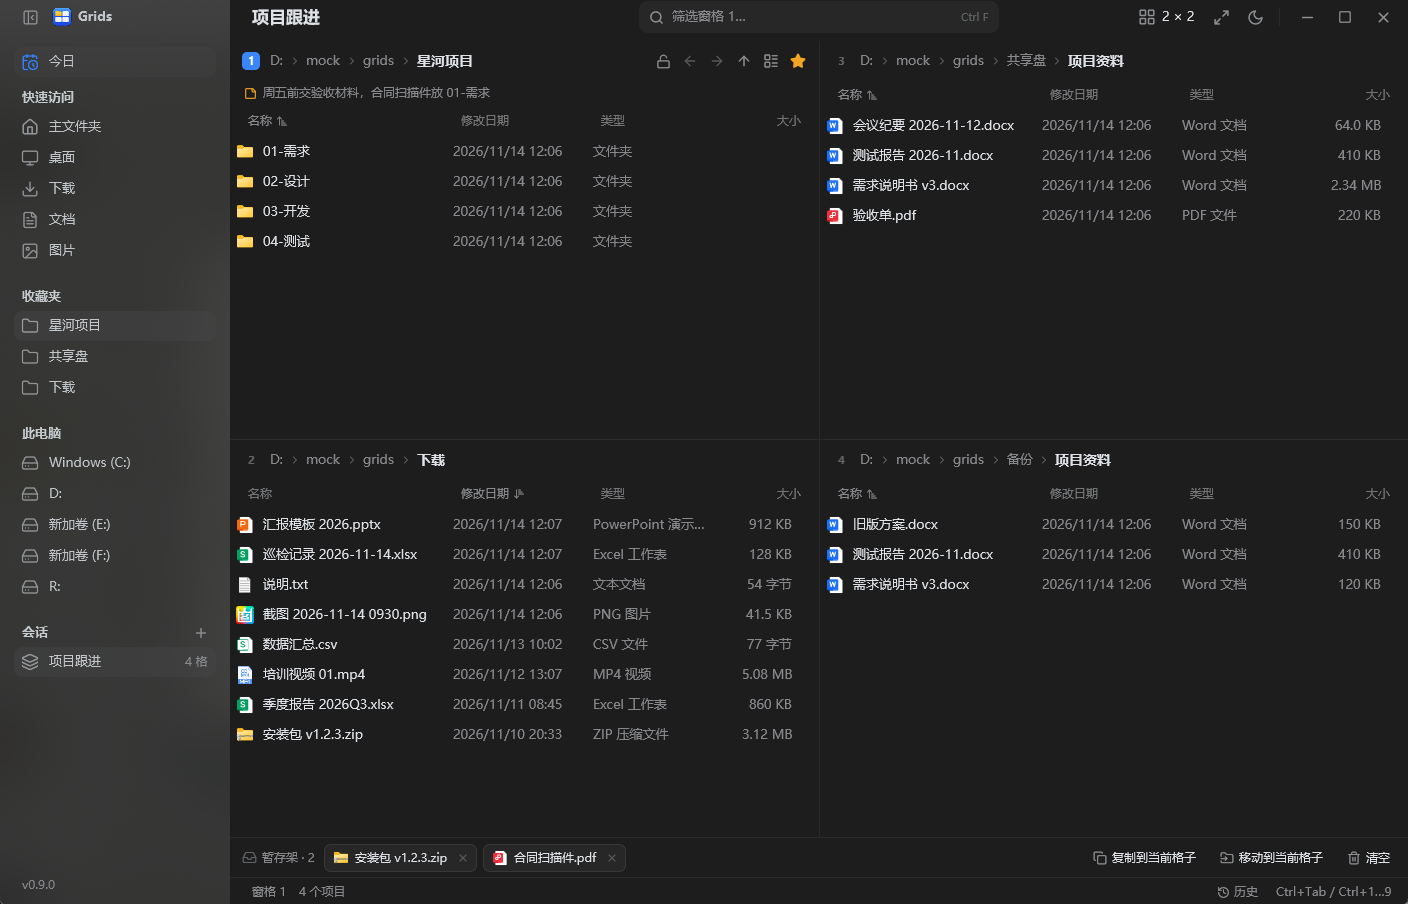
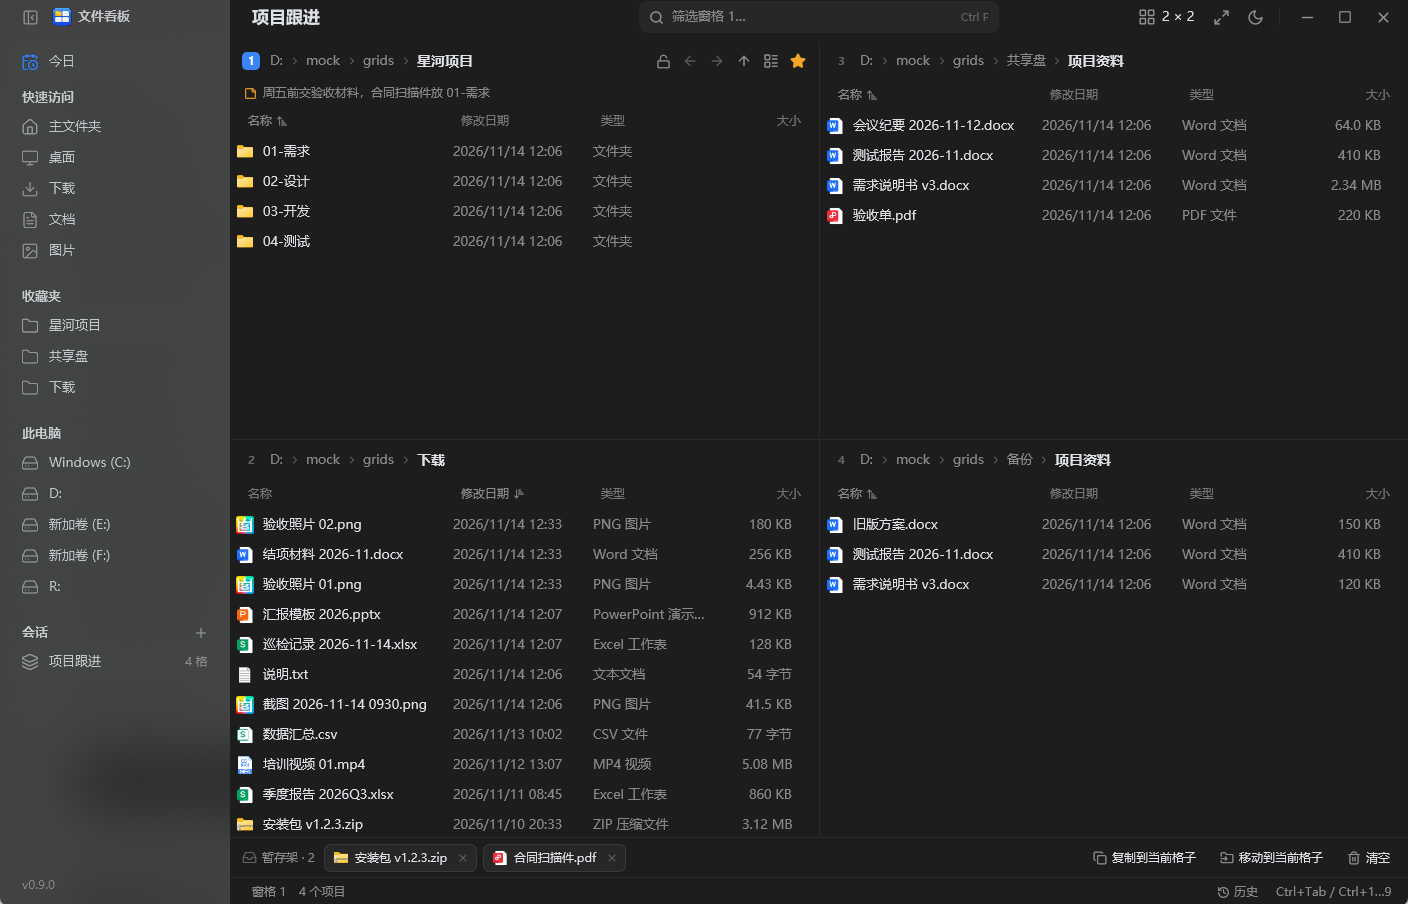
UI: the window is called 文件看板 / PaneBoard
The name follows the interface language: 文件看板 in Chinese, PaneBoard in
English. It shows in the title bar, the sidebar header, the about and version
dialogs, and the read-only notices. Repository, exe and settings keep the
Grids name.

README: name note, a Download section pointing at Releases, and the seven
screenshots retaken with the new name.

diff --git a/src/workspace.rs b/src/workspace.rs
@@ -320,7 +320,7 @@ impl Workspace {
 
     /// An edit was refused in a read-only folder: say so, offer to unlock.
     fn show_locked(&mut self, root: PathBuf, cx: &mut Context<Self>) {
-        let msg = tr(cx, "此文件夹已设为只读（仅在 Grids 内生效）", "This folder is read-only (inside Grids only)").to_string();
+        let msg = if state::en(cx) { format!("This folder is read-only (inside {} only)", state::brand(cx)) } else { format!("此文件夹已设为只读（仅在{}内生效）", state::brand(cx)) };
         self.show_toast(msg, cx);
         self.toast_unlock = Some(root);
     }
@@ -481,7 +481,7 @@ impl Workspace {
         let en = state::en(cx);
         let cfg = &state::shared(cx).config;
         let sidebar_open = cfg.sidebar_open;
-        let title = cfg.session_name.clone().unwrap_or_else(|| "Grids".into());
+        let title = cfg.session_name.clone().unwrap_or_else(|| state::brand(cx).into());
         let appearance = cfg.appearance;
         let l = &self.layout;
         let theme_icon = match appearance { Appearance::System => "sun-moon", Appearance::Light => "sun", Appearance::Dark => "moon" };
@@ -607,7 +607,7 @@ impl Workspace {
                 div().flex().items_center().gap(px(12.)).p(px(20.)).pb(px(12.))
                     .child(img("icon/grids-48.png").size(px(40.)).flex_none())
                     .child(div().flex_1().flex().flex_col().gap(px(2.))
-                        .child(div().text_size(px(17.)).font_weight(FontWeight::SEMIBOLD).child(format!("Grids {}", env!("CARGO_PKG_VERSION"))))
+                        .child(div().text_size(px(17.)).font_weight(FontWeight::SEMIBOLD).child(format!("{} {}", state::brand(cx), env!("CARGO_PKG_VERSION"))))
                         .child(div().text_color(Theme::text_caption()).child(tr(cx, "多窗格文件管理器 · MIT 许可证", "Multi-pane file manager · MIT licence"))))
                     .child(header_icon("about-close", "x", 28., 16.).tip(tr(cx, "关闭", "Close"), Some("Esc")).on_click(cx.listener(|this, _, window, cx| this.close_about(window, cx)))),
             )
@@ -700,7 +700,7 @@ impl Workspace {
                 div().flex().items_center().gap(px(10.)).px(px(14.)).pt(px(10.)).pb(px(8.))
                     .child(img("icon/grids-48.png").size(px(32.)).flex_none())
                     .child(div().flex().flex_col()
-                        .child(div().text_size(px(15.)).font_weight(FontWeight::SEMIBOLD).child("Grids"))
+                        .child(div().text_size(px(15.)).font_weight(FontWeight::SEMIBOLD).child(state::brand(cx)))
                         .child(div().text_size(px(theme::UI_SMALL)).text_color(Theme::text_caption()).child(tr(cx, "多窗格文件管理器", "Multi-pane file manager")))),
             )
             .child(
@@ -1114,7 +1114,7 @@ impl Workspace {
                 // The sidebar's own header row: the toggle, level with the plane's title.
                 div().h(px(HEADER_H)).flex_none().flex().items_center().pl(px(16.)).title_bar()
                     .child(header_icon("toggle-sidebar", "panel-left-close", 28., 17.).tip(tr(cx, "收起侧栏", "Hide sidebar"), Some("Ctrl+B")).on_click(cx.listener(|this, _, _, cx| this.toggle_sidebar(cx))))
-                    .child(div().ml(px(8.)).flex().items_center().gap(px(6.)).text_color(Theme::sidebar_text()).child(img("icon/grids-48.png").size(px(20.)).flex_none()).child(div().font_weight(FontWeight::SEMIBOLD).child("Grids"))),
+                    .child(div().ml(px(8.)).flex().items_center().gap(px(6.)).text_color(Theme::sidebar_text()).child(img("icon/grids-48.png").size(px(20.)).flex_none()).child(div().font_weight(FontWeight::SEMIBOLD).child(state::brand(cx)))),
             )
             .child(col)
             .child(div().flex_none().h(px(40.)).px(px(SB_X)).flex().items_center().child(self.version_label(cx)))

diff --git a/src/pane.rs b/src/pane.rs
@@ -1573,10 +1573,11 @@ impl PaneView {
         });
         // Read-only: the lock stays in view; unlocked it shows on hover.
         let lock_root = state::locked_root(cx, &st.path);
+        let brand = state::brand(cx);
         let lock_tip: SharedString = match &lock_root {
-            Some(r) if r == &st.path => t("只读文件夹（仅在 Grids 内生效）· 点击解锁", "Read-only (inside Grids only) · click to unlock").into(),
+            Some(r) if r == &st.path => if en { format!("Read-only folder (inside {brand} only) · click to unlock") } else { format!("只读文件夹（仅在{brand}内生效）· 点击解锁") }.into(),
             Some(r) => if en { format!("Read-only: locked at “{}” · click to unlock", r.display()) } else { format!("只读：由「{}」锁定 · 点击解锁", r.display()) }.into(),
-            None => t("设为只读（仅在 Grids 内生效）", "Make read-only (inside Grids only)").into(),
+            None => if en { format!("Make read-only (inside {brand} only)") } else { format!("设为只读（仅在{brand}内生效）") }.into(),
         };
         let locked = lock_root.is_some();
         let lock_btn = div().id("lock").size(px(26.)).rounded(px(7.)).flex_none().flex().items_center().justify_center().cursor_pointer()
@@ -1944,9 +1945,10 @@ impl Render for PaneView {
         });
         // A locked folder takes no clicks at all: nothing to select, nothing to
         // drag, nothing to drop onto.
+        let brand = state::brand(cx);
         let lock_veil = locked.as_ref().map(|root| {
             let tip: SharedString = if root == &self.state.path {
-                if en { "Locked folder (inside Grids only) · unlock with the lock button in the title bar".into() } else { "文件夹已锁定（仅在 Grids 内生效）· 点标题栏的锁图标解锁".into() }
+                if en { format!("Locked folder (inside {brand} only) · unlock with the lock button in the title bar").into() } else { format!("文件夹已锁定（仅在{brand}内生效）· 点标题栏的锁图标解锁").into() }
             } else if en { format!("Locked at “{}” · unlock with the lock button in the title bar", root.display()).into() } else { format!("由「{}」锁定 · 点标题栏的锁图标解锁", root.display()).into() };
             let root2 = root.clone();
             div().id("lock-veil").absolute().inset_0().occlude()

diff --git a/src/main.rs b/src/main.rs
@@ -27,6 +27,8 @@ fn main() {
     // Simplified Chinese by default; GRIDS_LANG=en switches to English.
     if let Some(l) = std::env::var_os("GRIDS_LANG") { config.lang = if l == "en" { Lang::En } else { Lang::Zh } }
     let (w, h) = config.window.unwrap_or((1360., 860.));
+    // The product name the interface and the taskbar show, in its language.
+    let brand = if config.lang == Lang::En { "PaneBoard" } else { "文件看板" };
     Application::new().with_assets(assets::Assets).run(move |cx: &mut App| {
         input::bind_keys(cx);
         pane::bind_keys(cx);
@@ -40,7 +42,7 @@ fn main() {
                 app_id: Some("grids".into()),
                 window_decorations: if cfg!(target_os = "linux") { Some(WindowDecorations::Client) } else { None },
                 titlebar: Some(TitlebarOptions {
-                    title: Some("Grids".into()),
+                    title: Some(brand.into()),
                     appears_transparent: true,
                     traffic_light_position: Some(point(px(14.), px(ui::HEADER_H / 2. - 7.))),
                 }),

diff --git a/src/state.rs b/src/state.rs
@@ -33,6 +33,8 @@ impl Shared {
 pub fn shared(cx: &App) -> &Shared { cx.global::<Shared>() }
 pub fn lang(cx: &App) -> Lang { cx.global::<Shared>().config.lang }
 pub fn en(cx: &App) -> bool { lang(cx) == Lang::En }
+/// The name the interface shows for the app.
+pub fn brand(cx: &App) -> &'static str { if en(cx) { "PaneBoard" } else { "文件看板" } }
 /// The read-only folder covering `path` (itself or an ancestor), if any.
 pub fn locked_root(cx: &App, path: &Path) -> Option<PathBuf> {
     grids_core::locked::locked_root(&shared(cx).config.locked, path).cloned()

diff --git a/README.md b/README.md
@@ -6,6 +6,8 @@ A multi-pane file manager for Windows, drawn entirely by the app: up to 16 panes
 
 This repository is a fork and a rewrite. Grids began as [efww/grids](https://github.com/efww/grids), a Q-Dir style manager whose panes were embedded Windows Explorer views. Here the window, the file lists and every menu and dialog are drawn by the app itself with [GPUI](https://www.gpui.rs), the Rust UI framework behind Zed. No Explorer view is embedded anywhere, and the program is a single exe of about 5.5 MB that never touches the network.
 
+In the window the app calls itself **文件看板** in Chinese and **PaneBoard** in English. The repository, the executable (`grids.exe`) and the settings file keep the name Grids.
+
 ![Grids with four panes and the sidebar](docs/screenshots/overview.png)
 
 The screenshots in this README show a mock project tree, not a real desktop.
@@ -115,6 +117,14 @@ Enter runs a command or opens a folder, Ctrl+Enter opens a folder in the next pa
 | Ctrl+Z | Undo the last operation |
 | Ctrl+↑ / Ctrl+↓ | Move the cursor without changing the selection |
 
+## Download
+
+Get `grids.exe` from [Releases](https://github.com/Joyi-code/grids/releases/latest), put it in any folder and run it. Nothing else needs installing, and the C runtime is linked statically.
+
+The exe is not code-signed, so Windows SmartScreen may warn the first time: choose **More info → Run anyway**.
+
+Windows 10 (1903 or later) or Windows 11, x64.
+
 ## Running it
 
 Build it with the Rust toolchain from [rustup](https://rustup.rs) (the version is pinned in `rust-toolchain.toml`) and the Windows SDK; GPUI compiles its shaders with the SDK's `fxc.exe`.
@@ -131,9 +141,7 @@ cargo build --release --locked
 
 `build.cmd` also points `GPUI_FXC_PATH` at the newest installed SDK, as CI does. Tests: `cargo test --release --locked --workspace`.
 
-The result is a single `grids.exe`; put it in any folder and run it. There is no prebuilt download for this version yet, so build it as above. Settings (`grids-gpui.json`) and the operation journal (`grids-journal.jsonl`) are written next to the exe, so the folder has to be writable. `GRIDS_CONFIG=<path>` puts the settings somewhere else, and `GRIDS_LOG=info` logs warnings to stderr.
-
-Windows 10 (1903 or later) or Windows 11, x64. The C runtime is linked statically, so a clean Windows starts it without the Visual C++ Redistributable.
+The result is a single `grids.exe`; put it in any folder and run it. Settings (`grids-gpui.json`) and the operation journal (`grids-journal.jsonl`) are written next to the exe, so the folder has to be writable. `GRIDS_CONFIG=<path>` puts the settings somewhere else, and `GRIDS_LOG=info` logs warnings to stderr.
 
 ## Limits
 

diff --git a/README.zh.md b/README.zh.md
@@ -6,6 +6,8 @@ Windows 多窗格文件管理器，界面全部由程序自己绘制：一个窗
 
 本仓库是 fork 之后的重写。Grids 起源于 [efww/grids](https://github.com/efww/grids)，那是一个把资源管理器视图嵌进窗格的 Q-Dir 风格管理器。这里的窗口、文件列表、菜单与对话框全部用 [GPUI](https://www.gpui.rs)（Zed 的 Rust UI 框架）自绘，不嵌入任何资源管理器视图；整个程序是一个约 5.5 MB 的 exe，不联网。
 
+界面里的名字是 **文件看板**（中文）和 **PaneBoard**（英文）。仓库名、可执行文件 `grids.exe` 和配置文件名仍沿用 Grids。
+
 ![四个窗格与侧栏](docs/screenshots/overview.png)
 
 本文截图使用演示用的模拟目录，不是真实桌面。
@@ -115,6 +117,14 @@ Enter 执行命令或打开目录，Ctrl+Enter 在下一格打开该目录。
 | Ctrl+Z | 撤销上一步操作 |
 | Ctrl+↑ / Ctrl+↓ | 只移动光标，不改选择 |
 
+## 下载
+
+在 [Releases](https://github.com/Joyi-code/grids/releases/latest) 下载 `grids.exe`，放到任意目录运行即可，不需要安装，C 运行库已静态链接。
+
+程序未做代码签名，首次运行 Windows SmartScreen 可能提示：点「更多信息」→「仍要运行」。
+
+Windows 10（1903 及以上）或 Windows 11，x64。
+
 ## 运行
 
 需要 [rustup](https://rustup.rs) 安装的 Rust 工具链（版本固定在 `rust-toolchain.toml`）和 Windows SDK；GPUI 用 SDK 的 `fxc.exe` 编译着色器。
@@ -131,9 +141,7 @@ cargo build --release --locked
 
 `build.cmd` 会像 CI 一样把 `GPUI_FXC_PATH` 指向最新安装的 SDK。测试：`cargo test --release --locked --workspace`。
 
-产物是单个 `grids.exe`，放到任意目录即可运行。当前版本还没有预编译下载，需要按上面的步骤自行构建。配置（`grids-gpui.json`）和操作日志（`grids-journal.jsonl`）写在 exe 同目录，所以该目录必须可写。`GRIDS_CONFIG=<路径>` 可改配置位置，`GRIDS_LOG=info` 把警告输出到 stderr。
-
-Windows 10（1903 及以上）或 Windows 11，x64。C 运行库静态链接，干净的 Windows 也不必装 Visual C++ 运行库。
+产物是单个 `grids.exe`，放到任意目录即可运行。配置（`grids-gpui.json`）和操作日志（`grids-journal.jsonl`）写在 exe 同目录，所以该目录必须可写。`GRIDS_CONFIG=<路径>` 可改配置位置，`GRIDS_LOG=info` 把警告输出到 stderr。
 
 ## 限制
 
